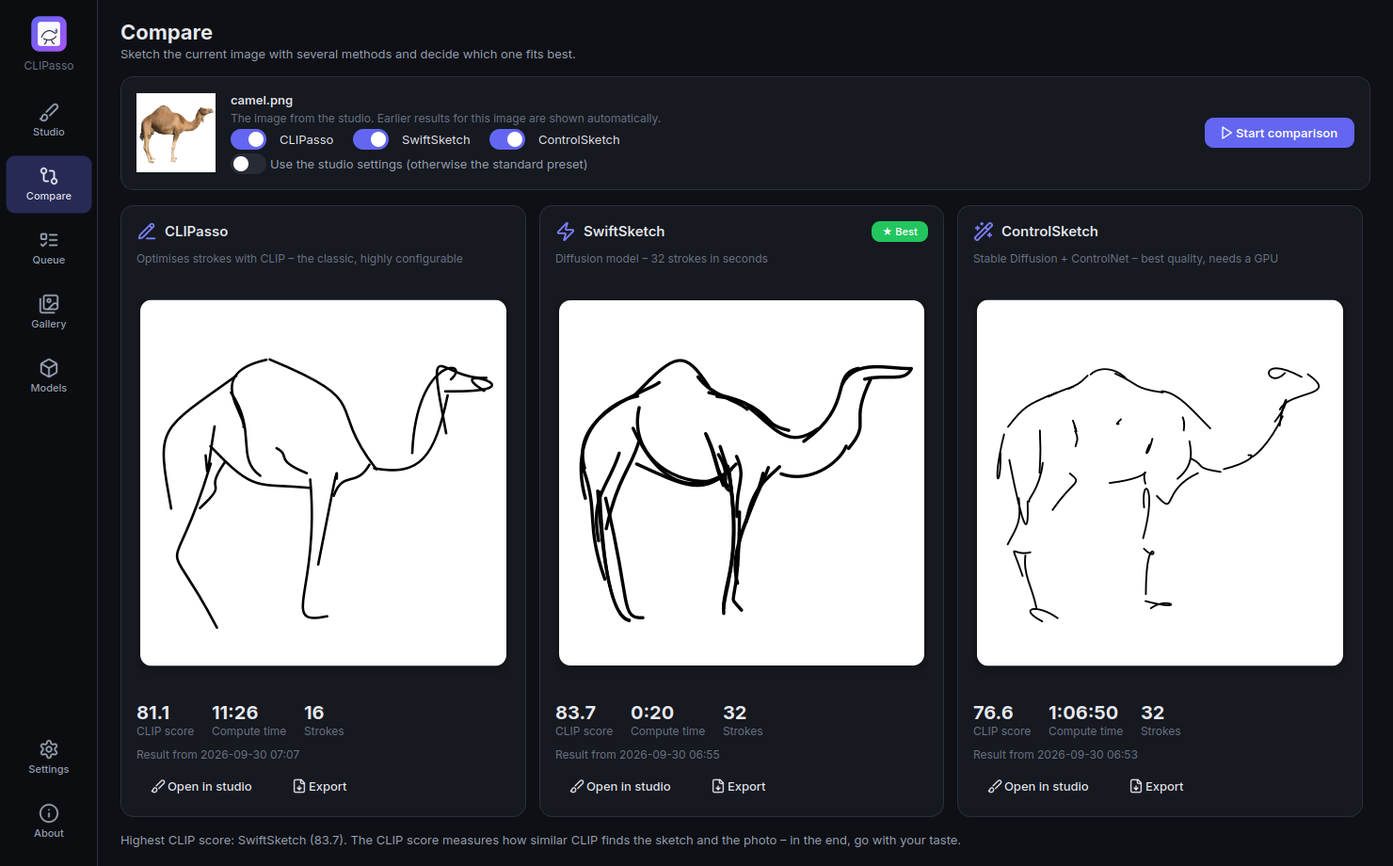
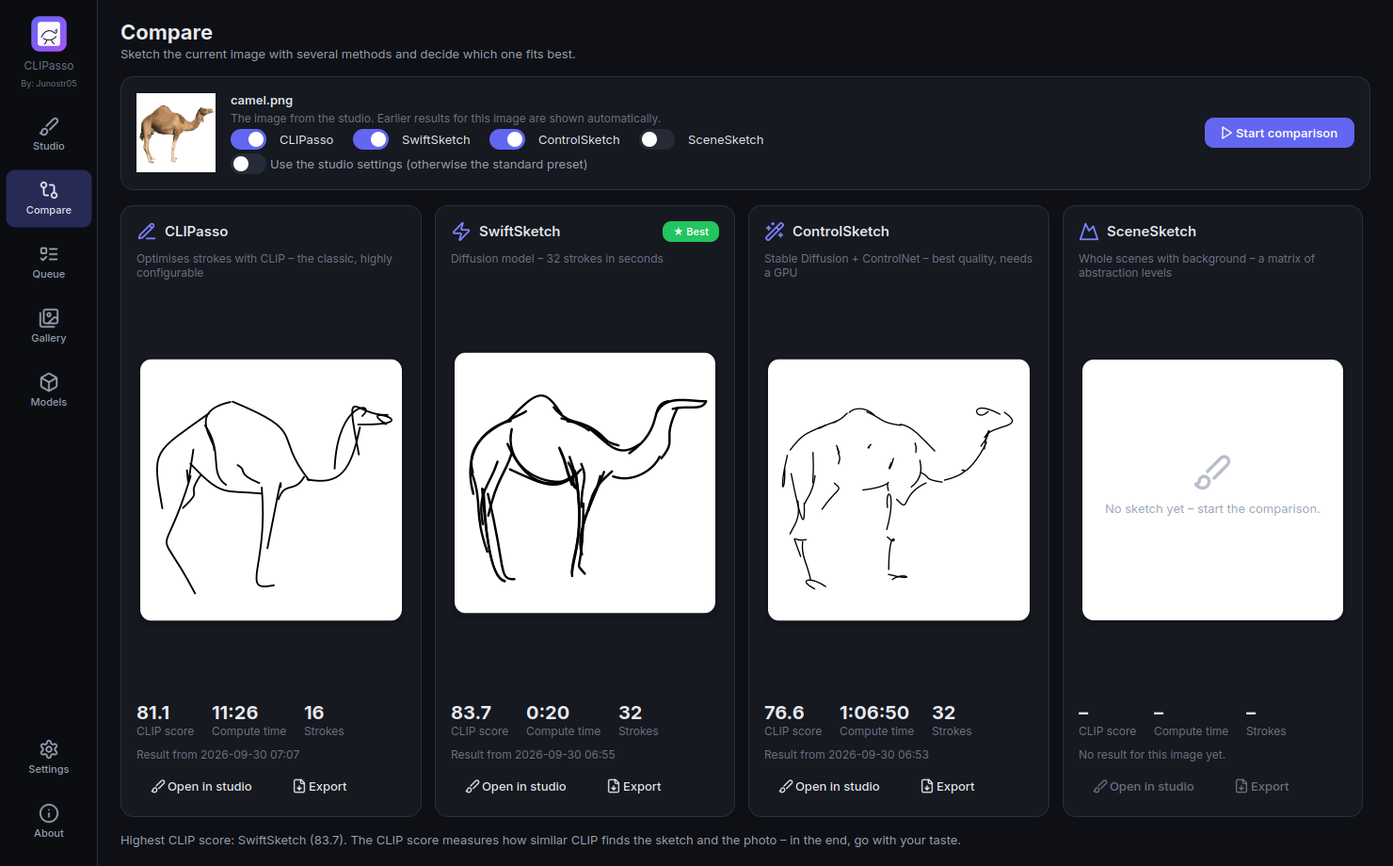
Release 2.1.0: README with SceneSketch, larger matrix view
- README: SceneSketch image from the final CPU run of the "Standard"
  preset (ballerina: 130 -> 127 -> 72 -> 43 -> 22 strokes, clean levels
  with the ratio-loss fix), matrix view screenshot, screenshots redone
  with the four method cards, credits split into the methods and the app
  (Junostr05: app idea, GUI vision and UI/UX direction)
- matrix view: the grid is transposed when that gives larger cells (one
  column of 5 levels in the wide view: ~107 px instead of ~42 px; the full
  3 x 9 matrix: ~56 px instead of ~20 px); strokes are clipped to their cell
- studio: opening a finished job shows its file name under the input image
  (kept the previous image's name before)
- subtitles of the studio and models pages name all four methods
- version 2.1.0, release notes without the experimental-build note

Claude-Session: https://claude.ai/code/session_01S7pgJpBq7v1cwD5D27gajo

diff --git a/clipasso_studio/gui/widgets/canvas.py b/clipasso_studio/gui/widgets/canvas.py
@@ -214,18 +214,27 @@ class MatrixView(QWidget):
         self.best = cell
         self.update()
 
-    def _geometry(self):
-        cols, rows = max(len(self.layers), 1), self.levels + 1
-        head, side, gap = 22, 26, 8
-        size = min((self.width() - side - gap * (cols + 1)) / cols, (self.height() - head - gap * (rows + 1)) / rows)
-        size = max(size, 16)
-        total_w = side + cols * size + (cols + 1) * gap
-        x0 = (self.width() - total_w) / 2 + side
-        y0 = head + (self.height() - head - rows * size - (rows + 1) * gap) / 2
-        return x0, y0, size, gap
+    _HEAD, _SIDE, _GAP = 22, 30, 8
 
-    def _cell_rect(self, col: int, row: int) -> QRectF:
-        x0, y0, size, gap = self._geometry()
+    def _cell_size(self, cols: int, rows: int) -> float:
+        return min((self.width() - self._SIDE - self._GAP * (cols + 1)) / cols,
+                   (self.height() - self._HEAD - self._GAP * (rows + 1)) / rows)
+
+    def _geometry(self):
+        """(x0, y0, cell size, gap, transposed). Layers are columns and levels rows like in the paper,
+        unless the grid is transposed because that gives larger cells (e.g. one tall column in a wide view)."""
+        layers, levels = max(len(self.layers), 1), self.levels + 1
+        transposed = self._cell_size(levels, layers) > self._cell_size(layers, levels)
+        cols, rows = (levels, layers) if transposed else (layers, levels)
+        size = max(self._cell_size(cols, rows), 16)
+        total_w = self._SIDE + cols * size + (cols + 1) * self._GAP
+        x0 = (self.width() - total_w) / 2 + self._SIDE
+        y0 = self._HEAD + (self.height() - self._HEAD - rows * size - (rows + 1) * self._GAP) / 2
+        return x0, y0, size, self._GAP, transposed
+
+    def _cell_rect(self, layer_index: int, level: int) -> QRectF:
+        x0, y0, size, gap, transposed = self._geometry()
+        col, row = (level, layer_index) if transposed else (layer_index, level)
         return QRectF(x0 + gap + col * (size + gap), y0 + gap + row * (size + gap), size, size)
 
     def paintEvent(self, event):  # noqa: N802
@@ -237,14 +246,16 @@ class MatrixView(QWidget):
             p.drawText(self.rect(), Qt.AlignCenter | Qt.TextWordWrap, tr("ui.matrix.empty"))
             p.end()
             return
-        x0, y0, size, gap = self._geometry()
+        _, y0, _, _, transposed = self._geometry()
         p.setPen(QColor(pal.muted))
-        for c, layer in enumerate(self.layers):
-            r = self._cell_rect(c, 0)
-            p.drawText(QRectF(r.left(), y0 - 20, r.width(), 18), Qt.AlignCenter, f"L{layer}")
-        for row in range(self.levels + 1):
-            r = self._cell_rect(0, row)
-            p.drawText(QRectF(r.left() - 30, r.top(), 24, r.height()), Qt.AlignRight | Qt.AlignVCenter, str(row))
+        head = [str(level) for level in range(self.levels + 1)] if transposed else [f"L{l}" for l in self.layers]
+        side = [f"L{l}" for l in self.layers] if transposed else [str(level) for level in range(self.levels + 1)]
+        for i, text in enumerate(head):
+            r = self._cell_rect(0, i) if transposed else self._cell_rect(i, 0)
+            p.drawText(QRectF(r.left(), y0 - 20, r.width(), 18), Qt.AlignCenter, text)
+        for i, text in enumerate(side):
+            r = self._cell_rect(i, 0) if transposed else self._cell_rect(0, i)
+            p.drawText(QRectF(r.left() - 34, r.top(), 28, r.height()), Qt.AlignRight | Qt.AlignVCenter, text)
         for c, layer in enumerate(self.layers):
             for row in range(self.levels + 1):
                 cell = layer * 100 + row
@@ -254,7 +265,10 @@ class MatrixView(QWidget):
                 p.drawRoundedRect(r, 6, 6)
                 renderer = self._renderers.get(cell)
                 if renderer:
+                    p.save()
+                    p.setClipRect(r)  # strokes may run past the edge of the scene
                     renderer.render(p, r.adjusted(2, 2, -2, -2))
+                    p.restore()
                 if cell in (self.selected, self.best):
                     color = pal.success if cell == self.best and cell != self.selected else pal.accent
                     p.setPen(QPen(QColor(color), 2))

diff --git a/tests/test_gui.py b/tests/test_gui.py
@@ -100,7 +100,15 @@ def test_scenesketch_in_the_studio(window):
     m.clicked.connect(clicked.append)
     center = m._cell_rect(1, 1).center()
     assert m._cell_at(center) == 801 and m._cell_at(m._cell_rect(0, 2).center()) == 202
+    assert not m._geometry()[4]  # 2 layers x 3 levels in a tall view: layers are columns
     m.grab()  # paints without errors
+    # one column of 5 levels in a wide, low view: shown as a row, with larger cells
+    m.resize(600, 280)
+    m.set_layout([8], 4)
+    assert m._geometry()[4] and m._geometry()[2] > 100
+    assert m._cell_at(m._cell_rect(0, 3).center()) == 803
+    assert m._cell_rect(0, 3).left() > m._cell_rect(0, 2).right()
+    m.grab()
 
 
 def test_single_layer_export_button(window):
@@ -197,8 +205,13 @@ def test_loading_a_swiftsketch_result(window, tmp_path):
     (run / "best_iter.svg").write_text(svg)
     (job / "camel_swiftsketch_32strokes_seed20_best.svg").write_text(svg)
     (run / "config.json").write_text(json.dumps({"seconds": 4.2, "clip_score": 81.5}))
+    from PIL import Image
+
+    target = tmp_path / "horse.png"
+    Image.new("RGB", (30, 20), "white").save(target)
+    Image.new("RGB", (30, 20), "white").save(job / "source.png")
     settings = schema.default_settings("swiftsketch")
-    summary = {"target": "camel.png", "created": "2026-09-29 12:00:00", "settings": settings, "method": "swiftsketch",
+    summary = {"target": str(target), "created": "2026-09-29 12:00:00", "settings": settings, "method": "swiftsketch",
                "clip_score": 81.5, "best_svg": str(job / "camel_swiftsketch_32strokes_seed20_best.svg"),
                "best_run": run.name, "runs": [{"seed": 20, "run_name": run.name, "run_dir": str(run),
                                                 "best_loss": 0.185, "best_iter": 50, "iterations_done": 51,
@@ -208,6 +221,7 @@ def test_loading_a_swiftsketch_result(window, tmp_path):
     studio = window.studio
     studio.show_job_dir(str(job))
     assert studio.params.method() == "swiftsketch"
+    assert studio.file_label.text().startswith("horse.png") and "30×20" in studio.file_label.text()
     assert studio.stat_loss.value.text() == "81.5"
     assert studio.stat_loss.caption.text() in ("CLIP-Score", "CLIP score")
     assert studio.thumbs[20].caption.text().endswith("81.5")

diff --git a/clipasso_studio/gui/pages/studio.py b/clipasso_studio/gui/pages/studio.py
@@ -665,7 +665,9 @@ class StudioPage(QWidget):
         if os.path.isfile(src):
             self.image_path = target if os.path.isfile(target) else src
             self.drop.set_image(src)
-            self.canvas.set_input(self._square_input(QPixmap(src)))
+            pm = QPixmap(src)
+            self.file_label.setText(f"{os.path.basename(self.image_path)}  ·  {pm.width()}×{pm.height()} px")
+            self.canvas.set_input(self._square_input(pm))
         runs = summary.get("runs", [])
         self._setup_matrix(summary.get("settings") or {})
         self._ensure_thumbs([r["seed"] for r in runs])

diff --git a/clipasso_studio/__init__.py b/clipasso_studio/__init__.py
@@ -1,5 +1,5 @@
 """CLIPasso Studio – desktop app for vector sketching from photos (CLIPasso, SwiftSketch, ControlSketch)."""
 
-__version__ = "2.1.0b1"
+__version__ = "2.1.0"
 APP_NAME = "CLIPasso Studio"
 APP_ID = "CLIPassoStudio"

diff --git a/README.md b/README.md
@@ -5,16 +5,17 @@
 <h1 align="center">CLIPasso Studio</h1>
 
 <p align="center">
-  A desktop app that turns photos into vector line drawings – with three methods in one interface:<br>
+  A desktop app that turns photos into vector line drawings – with four methods in one interface:<br>
   <a href="https://github.com/yael-vinker/CLIPasso"><b>CLIPasso</b></a> (SIGGRAPH 2022) ·
   <a href="https://github.com/swiftsketch/SwiftSketch"><b>SwiftSketch</b></a> (SIGGRAPH 2025) ·
-  <a href="https://github.com/swiftsketch/SwiftSketch"><b>ControlSketch</b></a><br>
+  <a href="https://github.com/swiftsketch/SwiftSketch"><b>ControlSketch</b></a> ·
+  <a href="https://github.com/yael-vinker/SceneSketch"><b>SceneSketch</b></a> (ICCV 2023)<br>
   Every option adjustable, live preview, method comparison – all in a single exe.
 </p>
 
 <p align="center">
   <a href="https://github.com/Junostr05/CLIPasso-Studio/releases/latest"><b>⬇ Download (Windows)</b></a> ·
-  <a href="#the-three-methods">Methods</a> ·
+  <a href="#the-four-methods">Methods</a> ·
   <a href="#features">Features</a> ·
   <a href="#usage">Usage</a> ·
   <a href="#building-from-source">Build</a>
@@ -33,29 +34,37 @@ The [releases page](https://github.com/Junostr05/CLIPasso-Studio/releases/latest
 
 | File | Description |
 |---|---|
-| **`CLIPassoStudio-CPU-Portable.exe`** (≈ 1 GB) | A single file: download, double-click, done. No installation and no Python needed. Everything CLIPasso needs is included; SwiftSketch and ControlSketch download their models the first time you use them (see below). It unpacks itself on start (15–40 s, with a splash screen). |
+| **`CLIPassoStudio-CPU-Portable.exe`** (≈ 1 GB) | A single file: download, double-click, done. No installation and no Python needed. Everything CLIPasso needs is included; SwiftSketch, ControlSketch and SceneSketch download their models the first time you use them (see below). It unpacks itself on start (15–40 s, with a splash screen). |
 | **`CLIPassoStudio-CPU-Setup.exe`** (≈ 1 GB) | The same app as an installer: install once, then it starts quickly and gets Start menu and desktop shortcuts. No admin rights needed. |
-| **`CLIPassoStudio-GPU-Setup.exe`** + `…-GPU-Setup-*.bin` (≈ 3.5 GB) | Edition for NVIDIA graphics cards (CUDA 12.8: GeForce GTX 16xx / RTX 20xx or newer, driver ≥ 570). CLIPasso runs 10–50× faster, and **ControlSketch is only practical with this edition**. Because it is larger than 2 GB, it is split into several files: **download all of them into the same folder** and run the `Setup.exe`. Without a suitable GPU it automatically falls back to the CPU. |
+| **`CLIPassoStudio-GPU-Setup.exe`** + `…-GPU-Setup-*.bin` (≈ 3.5 GB) | Edition for NVIDIA graphics cards (CUDA 12.8: GeForce GTX 16xx / RTX 20xx or newer, driver ≥ 570). CLIPasso and SceneSketch run 10–50× faster, and **ControlSketch is only practical with this edition**. Because it is larger than 2 GB, it is split into several files: **download all of them into the same folder** and run the `Setup.exe`. Without a suitable GPU it automatically falls back to the CPU. |
 
 > Windows SmartScreen may warn about an “unknown publisher” (the exe is not signed) → *More info* → *Run anyway*.
 
-## The three methods
+## The four methods
 
 Pick the method at the top of the studio with one click. Parameters, presets, time estimate and hints adapt to it, and the settings of each method are remembered.
 
-| | **CLIPasso** | **SwiftSketch** | **ControlSketch** |
-|---|---|---|---|
-| How it works | Optimises Bézier strokes until CLIP “sees” the sketch like the photo | A diffusion model generates 32 strokes in 50 denoising steps, a refinement network polishes them | Optimises strokes with an SDS loss from Stable Diffusion 1.5, steered by a ControlNet (depth, edges …) |
-| Speed | CPU: minutes · GPU: seconds to minutes | **CPU: ~5 s per sketch** | GPU: ~5–10 min · CPU: ~10 hours |
-| Strokes | any number (1–256), multi-stage training | fixed at 32 (as trained) | any number (default 32) |
-| Models | included | ≈ 710 MB, downloaded on first use | ≈ 3–4 GB (SD 1.5, ControlNet, detector, BLIP), downloaded on first use |
-| Strengths | very configurable, level of abstraction, text guidance | lightning fast, clean “artist” strokes | very natural, detailed sketches |
+| | **CLIPasso** | **SwiftSketch** | **ControlSketch** | **SceneSketch** |
+|---|---|---|---|---|
+| How it works | Optimises Bézier strokes until CLIP “sees” the sketch like the photo | A diffusion model generates 32 strokes in 50 denoising steps, a refinement network polishes them | Optimises strokes with an SDS loss from Stable Diffusion 1.5, steered by a ControlNet (depth, edges …) | Sketches the object and the background of a scene separately (CLIP loss per ViT layer) and combines them; a second network removes strokes step by step |
+| Best for | single objects | single objects | single objects | **whole scenes with background** |
+| Speed | CPU: minutes · GPU: seconds to minutes | **CPU: ~5 s per sketch** | GPU: ~5–10 min · CPU: ~10 hours | CPU: ≈ 20 min per scene sketch · GPU: 1–2 min |
+| Strokes | any number (1–256), multi-stage training | fixed at 32 (as trained) | any number (default 32) | 64 each for object and background, fewer with every simplification level |
+| Models | included | ≈ 710 MB, downloaded on first use | ≈ 3–4 GB (SD 1.5, ControlNet, detector, BLIP), downloaded on first use | ≈ 200 MB (LaMa), downloaded on first use |
+| Strengths | very configurable, level of abstraction, text guidance | lightning fast, clean “artist” strokes | very natural, detailed sketches | scenes, a whole matrix of abstraction levels |
 
 <p align="center">
   <img src="docs/screenshots/camel_drawing.gif" width="260" alt="CLIPasso optimising the strokes">
   <img src="docs/screenshots/swiftsketch_camel.gif" width="260" alt="SwiftSketch denoising the strokes">
 </p>
 <p align="center"><sub>Left: CLIPasso optimises the strokes. Right: SwiftSketch forms them out of noise in 50 denoising steps (GIF export of the app).</sub></p>
+
+**SceneSketch** draws whole scenes and produces a **matrix of sketches** instead of a single one: from precise to loose (fidelity – one column per CLIP layer) and from detailed to sparse (simplicity – strokes are removed step by step). The **Matrix** view of the studio shows all of them; click the one you like and export it.
+
+<p align="center">
+  <img src="docs/screenshots/scenesketch_ballerina.png" width="820" alt="SceneSketch: a scene and its simplification levels">
+</p>
+<p align="center"><sub>SceneSketch on the ballerina sample (CPU, “Standard” preset, about 2 hours): the photo, then fidelity layer 8 and its simplification levels – the same scene with fewer and fewer strokes.</sub></p>
 
 **Which one suits my picture?** The **Compare** page sketches the current image with all selected methods (standard preset or your studio settings) and shows the results side by side – with CLIP score, compute time and stroke count – and highlights the method with the highest CLIP score. Earlier results for the same image are shown automatically.
 
@@ -67,17 +76,19 @@ Pick the method at the top of the studio with one click. Parameters, presets, ti
   - *CLIPasso*: every argument of `run_object_sketching.py` and `config.py` (strokes, iterations, seeds, mask, working resolution, stroke width, segments, curve type, initial SVG, CLIP/DINO saliency, XDoG, softmax temperature, text target, CLIP model, conv loss, layer weights, FC weight, CLIP/text guidance, L2/LPIPS, learning rates, scheduler, opacity, multi-stage training, augmentations …).
   - *SwiftSketch*: all options of `generate.py` – guidance strength, refinement on/off, also saving the diffusion sketch, aspect ratio, seed, plus background mask and stroke width.
   - *ControlSketch*: all options of `config.py` – strokes, iterations, prompt (or automatic via BLIP), ControlNet condition (depth, Canny, HED, scribble, segmentation, normals), ControlNet and guidance strength, timesteps, object size, working and output resolution, attention initialisation (CLIP, or SDXL with an object name), stroke sorting, learning rate …
+  - *SceneSketch*: the options of `config.py`, `run_sketch.py` and the driver scripts – fidelity layers (2, 3, 4, 7, 8, 11), simplification levels and step sizes per layer, iterations of the object, background and simplification stages, object enlargement, strokes, saliency initialisation, learning rates, Gumbel temperature …
   - Checked by a test (`tests/test_settings.py`): every original argument has a setting with the same default value.
 - **Live preview** for all methods: you watch the sketch being drawn (for SwiftSketch every denoising step). Plus a photo/sketch slider, the attention map with the stroke start points, the mask, the ControlNet condition image for ControlSketch, a loss or CLIP score curve, the remaining time and thumbnails of all seeds. **Several sketches per image – the best one is picked automatically** (CLIPasso: lowest loss; SwiftSketch and ControlSketch: highest CLIP score).
 - **Presets** (Fast / Standard / Quality) per method, import/export of the settings as JSON, “copy command line”.
-- **Export**: SVG (stroke colour, width, background), PNG at any resolution, **GIF/MP4 of the drawing process** – for SwiftSketch, how the strokes emerge from noise. Abstraction series with one click (CLIPasso, ControlSketch).
+- **Export**: SVG (stroke colour, width, background), **SVG · 1 layer** (all strokes as one path in a single layer – for plotters, cutting machines such as Cricut or Silhouette, and laser software), PNG at any resolution, **GIF/MP4 of the drawing process** – for SwiftSketch, how the strokes emerge from noise. Abstraction series with one click (CLIPasso, ControlSketch); SceneSketch makes its own matrix.
 - **Queue** for many images, also with mixed methods, with pause/cancel, a notification when done and protection against sleep mode. **Gallery** of all results with a method filter.
 - **Models** page grouped by method: download with progress, delete, manual import of the SwiftSketch weights (in case Google Drive hits its daily quota).
-- **Dark/light theme**, **English/German** interface (switchable at runtime), and a command-line mode that is compatible with the original arguments of all three methods.
+- **Dark/light theme**, **English/German** interface (follows the Windows language, switchable at runtime), and a command-line mode that is compatible with the original arguments of all four methods.
 
 <p>
-  <img src="docs/screenshots/studio_controlsketch_dark_en.png" width="49%" alt="ControlSketch in the studio">
-  <img src="docs/screenshots/studio_light_en.png" width="49%" alt="Light theme">
+  <img src="docs/screenshots/studio_scenesketch_dark_en.png" width="32.5%" alt="SceneSketch's matrix view in the studio">
+  <img src="docs/screenshots/studio_controlsketch_dark_en.png" width="32.5%" alt="ControlSketch in the studio">
+  <img src="docs/screenshots/studio_light_en.png" width="32.5%" alt="Light theme">
 </p>
 
 ## Usage
@@ -87,7 +98,7 @@ Pick the method at the top of the studio with one click. Parameters, presets, ti
 3. Pick a preset, adjust parameters if you like, and click **Create sketch**.
 4. Export the best sketch (★) as SVG/PNG/GIF/MP4. The results are also saved in the output folder (default: `Documents\CLIPasso Studio`) – for every run `best_iter.svg`, `svg_logs/`, `config.json` (including the CLIP score) and `<run>_best.svg`.
 
-**Compute time (CPU):** SwiftSketch ~5 s per sketch. CLIPasso: *Fast* preset 5–15 min, *Standard* 45–90 min. ControlSketch needs about 10 hours per sketch on a CPU – a few minutes with an NVIDIA GPU.
+**Compute time (CPU):** SwiftSketch ~5 s per sketch. CLIPasso: *Fast* preset 5–15 min, *Standard* 45–90 min. SceneSketch: *Fast* ≈ 20 min (one scene sketch), *Standard* ≈ 2 h (one column of the matrix), the full matrix of the paper many hours – with an NVIDIA GPU minutes to about an hour. ControlSketch needs about 10 hours per sketch on a CPU – a few minutes with an NVIDIA GPU.
 
 **CLIP score:** the cosine similarity (in %) of the CLIP ViT-B/32 image features of the sketch and the (masked) input image. It is computed the same way for every method, which makes them comparable – in the end, go with your taste.
 
@@ -97,6 +108,7 @@ Pick the method at the top of the studio with one click. Parameters, presets, ti
 CLIPassoStudio.exe --cli --target_file camel.png --num_strokes 16 --mask_object 1 --num_sketches 3
 CLIPassoStudio.exe --cli --method swiftsketch --input_data camel.png --guidance_param 2.5 --num_sketches 4
 CLIPassoStudio.exe --cli --method controlsketch --target camel.png --condition depth --caption "a camel"
+CLIPassoStudio.exe --cli --method scenesketch --target_file ballerina.jpg --layers 2,8,11 --simplicity_levels 4
 CLIPassoStudio.exe --cli --method swiftsketch --help
 ```
 
@@ -116,7 +128,14 @@ In CLI mode, missing models are downloaded automatically (`--no_download` preven
 - Condition images without OpenCV/controlnet_aux: depth with MiDaS DPT-Hybrid (the same network), Canny as a NumPy port of `cv2.Canny` (compared with OpenCV in a test), HED as a port of the Apache-2.0 network, segmentation with UperNet. **Normals** are computed from the depth as described in the ControlNet 1.0 model card (the original uses NormalBae + ControlNet 1.1).
 - U²-Net instead of RMBG-1.4, K-means in NumPy instead of scikit-learn, the PyTorch renderer instead of diffvg; there is no `lr_scheduler` option because the original never uses it.
 
-The SwiftSketch and ControlSketch models are not bundled: they are downloaded from the official sources on first use (the authors' Google Drive, and Hugging Face with pinned revisions) and stored locally (ControlSketch models in float16).
+**SceneSketch** – ported from the MIT-licensed original code (painter with the stroke and width MLPs, loss with gradient-norm balancing, the fidelity and simplification scripts, the matrix combination). Differences from the original:
+- The PyTorch renderer instead of diffvg; the ViT is only evaluated up to the deepest layer the loss needs (same values, faster for shallow layers).
+- LaMa runs as a port of its generator network (Apache-2.0) with float16 weights, checked against the reference model (identical output with the original weights); U²-Net uses SceneSketch's own preprocessing.
+- The object and background sketches are combined as vectors: background strokes are cut exactly at the object outline instead of being whited out in a raster image, so every cell of the matrix is a plain stroke SVG.
+- The ratio loss of the simplification only decides *how many* strokes remain; in the original it also moves the strokes, and when a level lowers the target the quickest way to meet it is to make the sketch worse – objects visibly scrambled (the ballerina at level 2). Here each level is a clean, sparser version of the previous one.
+- Fewer than 8 simplification levels span the same range with larger steps; objects on a plain background (e.g. product photos) skip the background sketch.
+
+The SwiftSketch, ControlSketch and SceneSketch models are not bundled: they are downloaded from the official sources on first use (the authors' Google Drive, Hugging Face with pinned revisions, and the LaMa export of IOPaint on GitHub) and stored locally (ControlSketch and LaMa models in float16).
 
 ## Building from source
 
@@ -133,9 +152,19 @@ set MODE=onefile&& pyinstaller packaging\clipasso_studio.spec   # portable exe
 
 The complete Windows build (both editions, installers, self-test of the exe and the release) runs in [`.github/workflows/build.yml`](.github/workflows/build.yml). A manual run (*Run workflow* with a `release_tag`) creates a release; the `cpu` and `gpu` switches build the editions separately.
 
-## Licence & credits
+## Credits & licence
+
+### The methods
 
 - **CLIPasso** – Yael Vinker, Ehsan Pajouheshgar, Jessica Y. Bo, Roman Christian Bachmann, Amit Haim Bermano, Daniel Cohen-Or, Amir Zamir, Ariel Shamir: *CLIPasso: Semantically-Aware Object Sketching*, ACM TOG (SIGGRAPH 2022) – [Paper](https://arxiv.org/abs/2202.05822) · [Project](https://clipasso.github.io/clipasso/) · [Code](https://github.com/yael-vinker/CLIPasso).
 - **SwiftSketch / ControlSketch** – Ellie Arar, Yarden Frenkel, Daniel Cohen-Or, Ariel Shamir, Yael Vinker: *SwiftSketch: A Diffusion Model for Image-to-Vector Sketch Generation*, SIGGRAPH 2025 – [Paper](https://arxiv.org/abs/2502.08642) · [Project](https://swiftsketch.github.io/) · [Code](https://github.com/swiftsketch/SwiftSketch).
+- **SceneSketch (CLIPascene)** – Yael Vinker, Yuval Alaluf, Daniel Cohen-Or, Ariel Shamir: *CLIPascene: Scene Sketching with Different Types and Levels of Abstraction*, ICCV 2023 – [Paper](https://arxiv.org/abs/2211.17256) · [Project](https://clipascene.github.io/CLIPascene/) · [Code](https://github.com/yael-vinker/SceneSketch). The sample scenes (ballerina, house) come from its repository.
+- **LaMa** – Roman Suvorov et al.: *Resolution-robust Large Mask Inpainting with Fourier Convolutions*, WACV 2022 – [Code](https://github.com/advimman/lama).
 
-Like CLIPasso, this app is licensed under **[CC BY-NC-SA 4.0](LICENSE)** – **non-commercial use only**. The SwiftSketch weights are provided by the authors without an explicit licence (research/personal use); Stable Diffusion 1.5 and ControlNet are licensed under CreativeML OpenRAIL-M, which comes with use restrictions. All components and licences: [THIRD_PARTY_NOTICES.md](THIRD_PARTY_NOTICES.md).
+### The app
+
+**[Junostr05](https://github.com/Junostr05)** – idea for CLIPasso Studio, GUI vision and UI/UX direction: bringing these research methods into one proper desktop application.
+
+### Licence
+
+Like CLIPasso, this app is licensed under **[CC BY-NC-SA 4.0](LICENSE)** – **non-commercial use only**. The SwiftSketch weights are provided by the authors without an explicit licence (research/personal use); Stable Diffusion 1.5 and ControlNet are licensed under CreativeML OpenRAIL-M, which comes with use restrictions; SceneSketch (MIT) and LaMa (Apache-2.0) are open source. All components and licences: [THIRD_PARTY_NOTICES.md](THIRD_PARTY_NOTICES.md).

diff --git a/packaging/release_notes.md b/packaging/release_notes.md
@@ -1,5 +1,3 @@
-> **Experimental build (beta).** SceneSketch is new; this build is for trying it out while the last quality checks run. The final 2.1.0 follows shortly – it installs over this one.
-
 ## CLIPasso Studio 2.1 – SceneSketch: whole scenes
 
 **New: SceneSketch** ([CLIPascene](https://clipascene.github.io/CLIPascene/), ICCV 2023) as the fourth method. It sketches a whole scene with its background: the object in the foreground (U²-Net) and the background (filled in behind the object with LaMa) are sketched separately and combined. The result is a **matrix of sketches**: from precise to loose (fidelity: one column per CLIP layer) and from detailed to sparse (simplicity: strokes are removed step by step).
